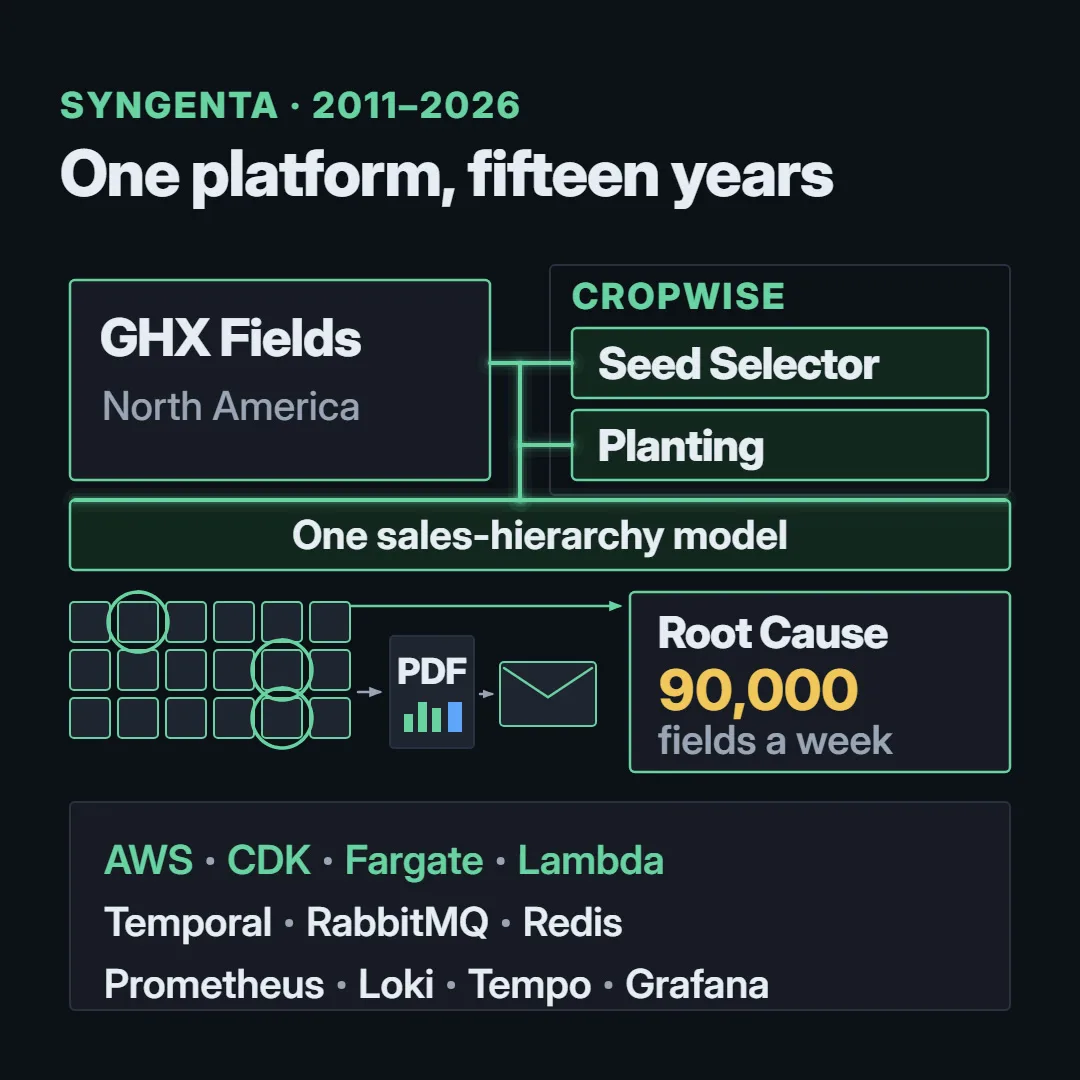
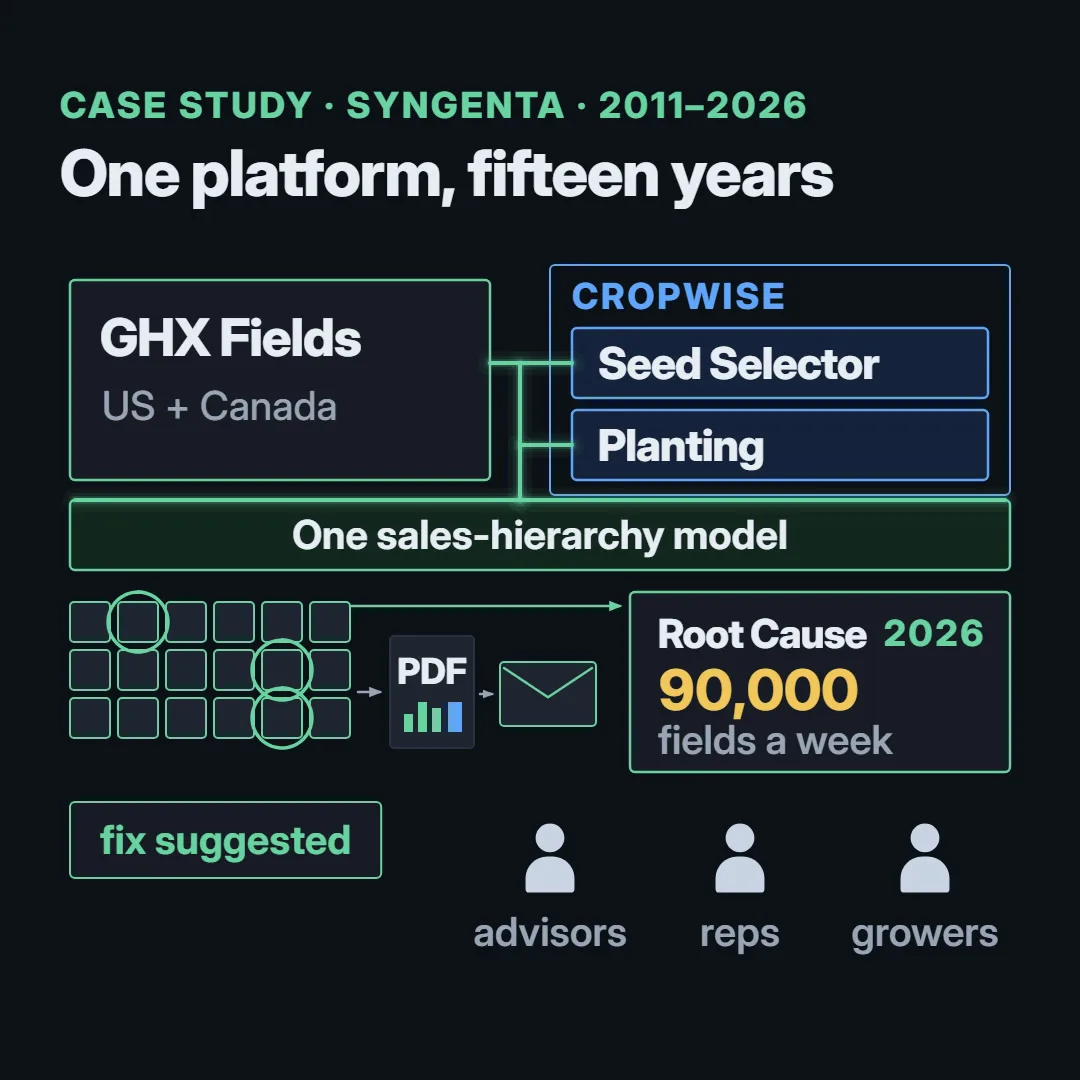
Publish case-study film v2 and fix employment wording
The v2 cut (55 s) replaces v1: the sales figure on the 2017 card, US and
Canada on the map, and a dedicated stage for the AWS migration, service
architecture and observability. The film's text version follows it, and
2017 now says US (Canada went live in 2024).

The role row and the Syngenta role label now name Skyward App Company, so
neither reads as a Syngenta job.

diff --git a/src/data/portfolio.ts b/src/data/portfolio.ts
@@ -26,7 +26,7 @@ export const selectedAchievements = [
   },
   {
     title: 'Led Syngenta’s seed-recommendation platforms for fifteen years, from regional tool to global systems.',
-    role: 'Platform architect and engineering org lead',
+    role: 'Platform architect and engineering org lead at Skyward App Company',
     outcome: 'E-Luminate (later GHX Fields) supports a few hundred advisors serving 10,000+ growers in the US and Canada; Cropwise reaches similar scale in markets including Argentina, Brazil, Germany, Ukraine, and Hungary.',
     scale: '2011–2026 · three continents',
   },
